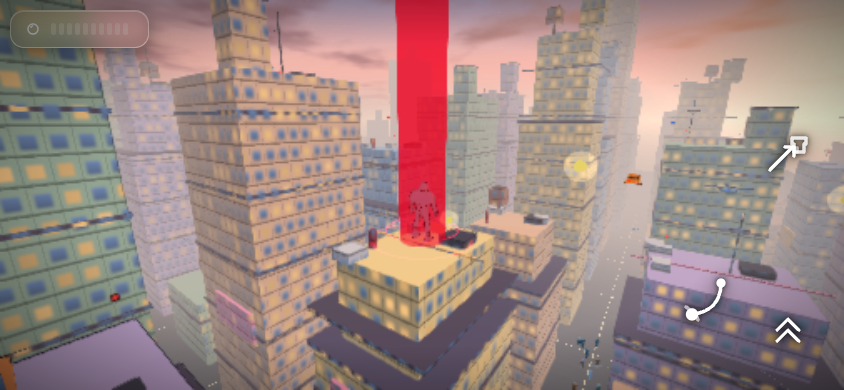
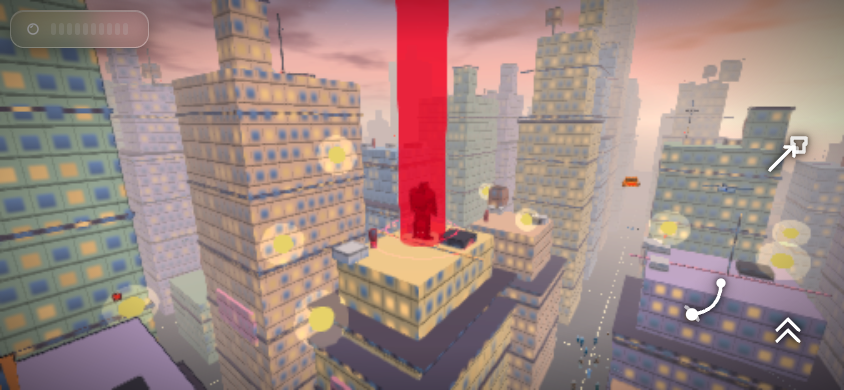
feat: add full red armor to giant boss

diff --git a/src/GiantBoss.tsx b/src/GiantBoss.tsx
@@ -20,6 +20,13 @@ type BossRig = {
     muscleGeometry: THREE.SphereGeometry;
     muscleMaterial: THREE.MeshLambertMaterial;
     muscleOutline: THREE.MeshLambertMaterial;
+    armorGeometry: THREE.DodecahedronGeometry;
+    armorSphereGeometry: THREE.SphereGeometry;
+    armorBandGeometry: THREE.CylinderGeometry;
+    armorMaterial: THREE.MeshLambertMaterial;
+    armorTrimMaterial: THREE.MeshLambertMaterial;
+    eyeMaterial: THREE.MeshBasicMaterial;
+    armorMeshes: THREE.Mesh[];
 };
 
 function smoothstep(a: number, b: number, x: number) {
@@ -56,7 +63,7 @@ function muscularShadowGeometry(data: any) {
     return geometry;
 }
 
-function whiteRedShadowMaterial() {
+function redArmorUnderlayMaterial() {
     const material = new THREE.MeshLambertMaterial({ color: '#ffffff', emissive: '#101010', emissiveIntensity: 0.08 });
     new THREE.TextureLoader().load(baseTexUrl, (source) => {
         const image = source.image as HTMLImageElement;
@@ -75,8 +82,8 @@ function whiteRedShadowMaterial() {
                 const shade = 0.84 + 0.16 * (luminance / 255);
                 data[i] = 255 * shade; data[i + 1] = 20 * shade; data[i + 2] = 32 * shade;
             } else {
-                const shade = 0.78 + 0.22 * (luminance / 255);
-                data[i] = 250 * shade; data[i + 1] = 252 * shade; data[i + 2] = 255 * shade;
+                const shade = 0.72 + 0.28 * (luminance / 255);
+                data[i] = 106 * shade; data[i + 1] = 16 * shade; data[i + 2] = 29 * shade;
             }
         }
         ctx.putImageData(pixels, 0, 0);
@@ -98,7 +105,7 @@ function addMuscle(parent: THREE.Bone, name: string, position: [number, number, 
 function buildBossRig(): BossRig {
     const data = SOURCE_HERO;
     const geometry = muscularShadowGeometry(data);
-    const skin = whiteRedShadowMaterial();
+    const skin = redArmorUnderlayMaterial();
     const body = new THREE.SkinnedMesh(geometry, skin);
     body.name = 'giant-boss-shadow-body'; body.frustumCulled = false;
     body.userData.shadowBody = true;
@@ -114,7 +121,7 @@ function buildBossRig(): BossRig {
     body.add(bones[0]);
 
     const muscleGeometry = new THREE.SphereGeometry(1, 14, 10);
-    const muscleMaterial = new THREE.MeshLambertMaterial({ color: '#f8f9fb', emissive: '#101010', emissiveIntensity: 0.06 });
+    const muscleMaterial = new THREE.MeshLambertMaterial({ color: '#69121f', emissive: '#160208', emissiveIntensity: 0.08 });
     const outline = new THREE.MeshBasicMaterial({ color: '#0a0d1a', side: THREE.BackSide });
     outline.onBeforeCompile = (shader) => {
         shader.vertexShader = shader.vertexShader.replace('#include <project_vertex>', 'transformed += normalize(objectNormal) * 0.014;\n#include <project_vertex>');
@@ -125,6 +132,21 @@ function buildBossRig(): BossRig {
         shader.vertexShader = shader.vertexShader.replace('#include <project_vertex>', 'transformed += normalize(objectNormal) * 0.014;\n#include <project_vertex>');
     };
     muscleOutline.customProgramCacheKey = () => 'shadow-boss-muscle-outline-v1';
+
+    const armorGeometry = new THREE.DodecahedronGeometry(1, 0);
+    const armorSphereGeometry = new THREE.SphereGeometry(1, 12, 8);
+    const armorBandGeometry = new THREE.CylinderGeometry(1, 0.82, 1, 10, 1);
+    const armorMaterial = new THREE.MeshLambertMaterial({ color: '#c92338', emissive: '#27030a', emissiveIntensity: 0.12 });
+    const armorTrimMaterial = new THREE.MeshLambertMaterial({ color: '#74111f', emissive: '#190207', emissiveIntensity: 0.08 });
+    const eyeMaterial = new THREE.MeshBasicMaterial({ color: '#ff1d32' });
+    const armorMeshes: THREE.Mesh[] = [];
+    const plate = (parent: THREE.Bone, part: string, position: [number, number, number], size: [number, number, number], material = armorMaterial, shape: THREE.BufferGeometry = armorGeometry) => {
+        const mesh = new THREE.Mesh(shape, material);
+        mesh.name = `boss-armor-${part}-${armorMeshes.length}`;
+        mesh.position.set(...position); mesh.scale.set(...size);
+        mesh.userData.bossArmor = true; mesh.userData.armorPart = part;
+        parent.add(mesh); armorMeshes.push(mesh); return mesh;
+    };
 
     for (const side of [-1, 1]) {
         const label = side < 0 ? 'left' : 'right';
@@ -137,14 +159,69 @@ function buildBossRig(): BossRig {
         addMuscle(byName[side < 0 ? 'thighL' : 'thighR'], `boss-quad-${label}`, [side * 0.045, -0.18, 0.035], [0.082, 0.17, 0.095], muscleGeometry, muscleMaterial, muscleOutline);
     }
 
+    // The open-faced helmet keeps Shadow's original red lens pixels unobstructed.
+    plate(byName.head, 'helmet', [0, 0.12, 0.035], [0.125, 0.065, 0.14], armorTrimMaterial, armorSphereGeometry);
+    for (const side of [-1, 1]) {
+        plate(byName.head, 'helmet', [side * 0.095, 0.015, 0.12], [0.04, 0.12, 0.15], armorMaterial, armorSphereGeometry);
+        plate(byName.head, 'helmet', [side * 0.075, -0.105, 0.22], [0.05, 0.05, 0.10], armorTrimMaterial, armorSphereGeometry);
+    }
+    plate(byName.head, 'helmet', [0, 0.095, 0.31], [0.093, 0.025, 0.045], armorMaterial);
+    plate(byName.head, 'helmet', [0, -0.13, 0.23], [0.085, 0.04, 0.09], armorMaterial);
+    for (const side of [-1, 1]) {
+        const eye = new THREE.Mesh(armorSphereGeometry, eyeMaterial);
+        eye.name = `boss-original-red-eye-${side < 0 ? 'left' : 'right'}`;
+        eye.position.set(side * 0.032, 0.044, 0.335); eye.scale.set(0.019, 0.012, 0.006);
+        eye.userData.bossEyeLens = true; byName.head.add(eye);
+    }
+    plate(byName.neck, 'neck', [0, 0.035, 0], [0.135, 0.10, 0.135], armorTrimMaterial, armorBandGeometry);
+
+    plate(byName.chest, 'chest', [0, 0.045, 0.13], [0.36, 0.27, 0.13]);
+    for (const side of [-1, 1]) plate(byName.chest, 'chest', [side * 0.15, 0.075, 0.205], [0.18, 0.13, 0.075], armorMaterial, armorSphereGeometry);
+    plate(byName.chest, 'chest', [0, -0.035, 0.232], [0.075, 0.20, 0.055], armorTrimMaterial);
+    plate(byName.chest, 'back', [0, 0.045, -0.135], [0.31, 0.25, 0.105], armorTrimMaterial, armorSphereGeometry);
+    plate(byName.spine, 'abdomen', [0, 0.035, 0.145], [0.23, 0.16, 0.085]);
+    plate(byName.spine, 'abdomen', [0, -0.095, 0.14], [0.205, 0.095, 0.08], armorTrimMaterial);
+
+    plate(byName.hips, 'pelvis', [0, -0.045, 0.045], [0.27, 0.16, 0.17], armorTrimMaterial, armorSphereGeometry);
+    plate(byName.hips, 'pelvis', [0, -0.04, 0.15], [0.205, 0.12, 0.085]);
+    plate(byName.hips, 'pelvis', [0, -0.14, 0], [0.26, 0.075, 0.24], armorTrimMaterial, armorBandGeometry);
+    for (const side of [-1, 1]) plate(byName.hips, 'pelvis', [side * 0.205, -0.025, 0.035], [0.11, 0.15, 0.135]);
+
+    for (const side of [-1, 1]) {
+        const upper = byName[side < 0 ? 'uarmL' : 'uarmR'];
+        const fore = byName[side < 0 ? 'farmL' : 'farmR'];
+        const hand = byName[side < 0 ? 'handL' : 'handR'];
+        plate(upper, 'shoulder', [0, 0.01, 0.005], [0.205, 0.175, 0.19]);
+        plate(upper, 'upper-arm', [0, -0.155, 0], [0.125, 0.16, 0.125], armorTrimMaterial, armorBandGeometry);
+        plate(upper, 'upper-arm', [0, -0.145, 0.082], [0.115, 0.16, 0.072]);
+        plate(upper, 'elbow', [0, -0.305, 0.025], [0.13, 0.085, 0.125], armorMaterial, armorSphereGeometry);
+        plate(fore, 'forearm', [0, -0.14, 0], [0.108, 0.15, 0.108], armorTrimMaterial, armorBandGeometry);
+        plate(fore, 'forearm', [0, -0.135, 0.072], [0.11, 0.16, 0.075]);
+        plate(hand, 'gauntlet', [0, -0.005, 0.045], [0.11, 0.09, 0.13]);
+        plate(hand, 'gauntlet', [0, 0.015, 0.105], [0.078, 0.055, 0.055], armorTrimMaterial);
+    }
+
+    for (const side of [-1, 1]) {
+        const thigh = byName[side < 0 ? 'thighL' : 'thighR'];
+        const shin = byName[side < 0 ? 'shinL' : 'shinR'];
+        const foot = byName[side < 0 ? 'footL' : 'footR'];
+        plate(thigh, 'thigh', [0, -0.22, 0], [0.145, 0.23, 0.14], armorTrimMaterial, armorBandGeometry);
+        plate(thigh, 'thigh', [0, -0.205, 0.075], [0.13, 0.205, 0.078]);
+        plate(shin, 'knee', [0, 0.005, 0.03], [0.145, 0.105, 0.13], armorMaterial, armorSphereGeometry);
+        plate(shin, 'shin', [0, -0.22, 0], [0.12, 0.23, 0.12], armorTrimMaterial, armorBandGeometry);
+        plate(shin, 'shin', [0, -0.215, 0.075], [0.115, 0.22, 0.078]);
+        plate(foot, 'boot', [0, -0.02, 0.07], [0.145, 0.095, 0.205]);
+        plate(foot, 'boot', [0, -0.055, 0.135], [0.12, 0.048, 0.10], armorTrimMaterial);
+    }
+
     const root = new THREE.Group(); root.add(body); root.updateMatrixWorld(true);
     body.bind(new THREE.Skeleton(bones));
     const ink = new THREE.SkinnedMesh(geometry, outline);
     ink.name = 'giant-boss-shadow-outline'; ink.frustumCulled = false;
     root.add(ink); ink.bind(body.skeleton, body.bindMatrix);
 
-    root.userData = { giantBoss: true, bodyModel: 'Shadow hero mesh', scaleFactor: BOSS_SCALE_FACTOR, shadowRootScale: SHADOW_ROOT_SCALE, bodyOffset: BOSS_BODY_OFFSET };
-    return { root, body, bones, byName, geometry, skin, outline, muscleGeometry, muscleMaterial, muscleOutline };
+    root.userData = { giantBoss: true, bodyModel: 'Shadow hero mesh', scaleFactor: BOSS_SCALE_FACTOR, shadowRootScale: SHADOW_ROOT_SCALE, bodyOffset: BOSS_BODY_OFFSET, armorMeshCount: armorMeshes.length, armorCoverage: [...new Set(armorMeshes.map((mesh) => mesh.userData.armorPart))] };
+    return { root, body, bones, byName, geometry, skin, outline, muscleGeometry, muscleMaterial, muscleOutline, armorGeometry, armorSphereGeometry, armorBandGeometry, armorMaterial, armorTrimMaterial, eyeMaterial, armorMeshes };
 }
 
 export function GiantBoss({ sim }: { sim: Sim }) {
@@ -155,6 +232,7 @@ export function GiantBoss({ sim }: { sim: Sim }) {
     useEffect(() => () => {
         rig.geometry.dispose(); rig.skin.map?.dispose(); rig.skin.dispose(); rig.outline.dispose();
         rig.muscleGeometry.dispose(); rig.muscleMaterial.dispose(); rig.muscleOutline.dispose();
+        rig.armorGeometry.dispose(); rig.armorSphereGeometry.dispose(); rig.armorBandGeometry.dispose(); rig.armorMaterial.dispose(); rig.armorTrimMaterial.dispose(); rig.eyeMaterial.dispose();
     }, [rig]);
 
     useFrame((_, rawDt) => {

diff --git a/CHANGELOG.md b/CHANGELOG.md
@@ -2,6 +2,15 @@
 
 All notable changes to the Web Swinger 3D project ("Shadow: The Soul of Darkness") are documented in this file.
 
+## [Released] - Full-body red boss armor
+### Changed
+- Added 50 original, low-poly red armor plates over the existing 17-bone Shadow boss from helmet and gorget through chest/back, shoulders, arms, gauntlets, pelvis, thighs, knees, greaves, and boots. The open-faced helmet leaves Shadow's original red lens pixels unobstructed; two tiny red eye highlights make them legible at phone size. The armor is bone-attached and follows the existing heavy stride/attack.
+- Kept the boss's Shadow skinned human body, exact 3× root scale, hitbox/combat rules, fixed rooftop arena and red beacon, Ghost animation parity/morphs, and the player's model/HUD/controls/melee/landscape behavior unchanged. No simulator, player, or Ghost logic was modified; the armor geometry/materials are original and use no external assets.
+### Verification
+- `npx tsc --noEmit`, `VITE_DBG=1 npm run build`, `PORT=4173 node test/boss.mjs` (17-bone body, 3× scale, 50 red bone-attached armor meshes, full-body coverage, eye aperture, boss strike, ordinary-melee exclusion, and Snare damage at desktop 1365×768 and phone-landscape 844×390), `PORT=4173 node test/boss-arena.mjs`, and the Ghost animation/morph/traversal regressions pass in Chromium WebGL2/ANGLE SwiftShader.
+- Phone-landscape armor evidence: `art/boss/shot-after-red-armor-mobile-landscape.png` (844×390), paired against the earlier white-body view `art/boss/shot-after-shadow-body-boss-mobile-landscape.png`. Physical Android/Windows and target-GPU frame rates remain untested.
+- Changes are scoped to the private mirror's `main`; no push was made to the original repository.
+
 ## [Released] - Ghost full-action animation parity and surface morph
 ### Changed
 - Ghost now renders Shadow's shared live clip and procedural action poses for traversal, spring-shot, glide/flight, swimming/dive, dodge/roll/cartwheel, all seven melee moves, plasma web, and every Shadow Snare phase. The two-hand spring shot is driven by the real jump-from-web simulator transition and aims both hands at Shadow's anchor.

diff --git a/docs/REFERENCES.md b/docs/REFERENCES.md
@@ -45,6 +45,9 @@ Implementation direction from the inspected references: widen the Snare's multi-
 - Motion reference: [The Biomechanical Characteristics of the Strongman Yoke Walk, Frontiers](https://www.frontiersin.org/journals/sports-and-active-living/articles/10.3389/fspor.2021.670297/full). In 19 strongman athletes, the study reports relatively short strides and longer stance time during loaded walking; the existing boss keeps a restrained cadence rather than simply moving Shadow's gait at full speed. This human study is contextual evidence, not a direct model of a fictional giant.
 - Animation principle: [5 Rules For Animating Colossi, GameAnim](https://www.gameanim.com/2021/09/30/5-rules-for-animating-colossi/). Its summary of Masanobu Tanaka's talk informed smooth movement starts and restrained heavy-limb overlap. No reference artwork, animation, or code was copied.
 
+## Full-body red boss armor (2026-10-29)
+- The armor is original procedural low-poly geometry attached to the project's existing 17-bone Shadow skeleton. Helmet framing leaves the original red eye pixels clear; two small red lens highlights sit in front of those preserved pixels for phone-size legibility. The segmented plates, dark-red underlayer, materials, and proportions were authored in-project. No external armor model, texture, or game asset was copied.
+
 ## Ghost full-action animation parity and landing/wall morph (2026-10-29)
 
 - Animation workflow: [Adobe Mixamo — animate characters](https://helpx.adobe.com/creative-cloud/help/animate-characters-mixamo.html). Adobe documents browsing its animation library, applying a selected animation to a built-in or uploaded character, and editing settings such as speed and arm spacing. The project's existing Mixamo-derived idle/run/jump/wall/swim/punch clips are retargeted to its own rig; Ghost now uses the same live clip and pose evaluator as Shadow. The seven melee moves, dodge variants, plasma shot, spring targeting, and Snare phases remain project-owned procedural gameplay poses; no Mixamo files are redistributed.

diff --git a/docs/SCORECARD.md b/docs/SCORECARD.md
@@ -111,3 +111,11 @@ UPDATE 5:37: wall crawl/run, wall jump, wall vault, higher jump (apex 4.6 m) imp
 Wall crawling, wall walking/running, higher jump, running, swimming (ocean, split view, underwater).
 Tests required before any claim: wall attach/detach, wall jump, water entry/exit, transitions ground<->wall<->swing.
 Current jump apex 2.4 m (to raise). Run PASS. Wall and swim: none.
+
+## Full-body red boss armor — provisional 84/100
+- Visuals: 18/20 (the phone-landscape capture shows the 3× Shadow-bodied boss in bulky red armor from helmet to boots, with two clear red eyes through the open face)
+- Controls/behavior: 25/25 (the existing 3× body, fixed roof/beacon, boss strike, ordinary-melee exclusion, and Snare damage remain covered by focused regressions)
+- Performance (estimate): 15/20 (50 bone-attached armor meshes are limited to the single boss; SwiftShader is not a target-device FPS result)
+- Stability: 14/15 (type-check, production build, boss, arena, and Ghost animation/morph regressions pass; full suite not run)
+- Device compatibility (estimate): 12/20 (physical Android and Windows remain untested)
+Evidence: `test/boss.mjs` PASS at desktop 1365×768 and phone-landscape 844×390; verifies all 50 red armor meshes are attached to the existing bones, required helmet-to-boot coverage, the open eye aperture, original red lens texture and two red highlights, exact 3× scale, and unchanged combat checks. `test/boss-arena.mjs` plus Ghost animation, morph, and traversal tests PASS. Captures: `art/boss/shot-after-red-armor-mobile-landscape.png` and `art/boss/shot-after-boss-arena-mobile-landscape.png`; physical-device and target-GPU frame-rate results are UNTESTED.

diff --git a/docs/FEATURE_BACKLOG.md b/docs/FEATURE_BACKLOG.md
@@ -66,7 +66,7 @@ Total requests extracted from project history: 68.
 61. Plasma web projectile weapon (auto-targeting, homing, radial shockwave blast)
 62. Insomniac Spider-Man 2 martial arts combat flow & web combo choreography (gap closing strikes, 3-hit combo cadence, hit-stop impact weighting)
 63. Second hero companion character: Ghost (feminine white-suited companion, hot-pink lenses, autonomous follow/traversal/combat from the first frame; now mirrors every applicable live Shadow clip/action pose—including melee, Snare, plasma, and dual-hand spring-shot—and morph-transports onto each ground landing or wall-crawl surface with the pink-white particle effect) - implemented in the private mirror's `main`; 26-action, surface-transition, and traversal phone-landscape tests pass; physical devices remain untested
-64. Giant boss (Shadow's existing human body model with a muscular white/red finish, 3x Shadow root scale; ordinary melee locked, Shadow Snare allowed; fixed central rooftop arena with a large red beacon) - revised for `main`; automatic Vercel Git deployment
+64. Giant boss (Shadow's existing human body at 3× scale, now covered in bulky bone-attached red armor with visible red eyes; ordinary melee locked, Shadow Snare allowed; fixed rooftop arena and red beacon preserved) - implemented in the private mirror's `main` with Git-triggered deployment; physical devices remain untested
 
 ## Group 2: Still Queued / In Progress (4 items)
 65. Detailed flying cars with collision pass and web anchor towing - queued
